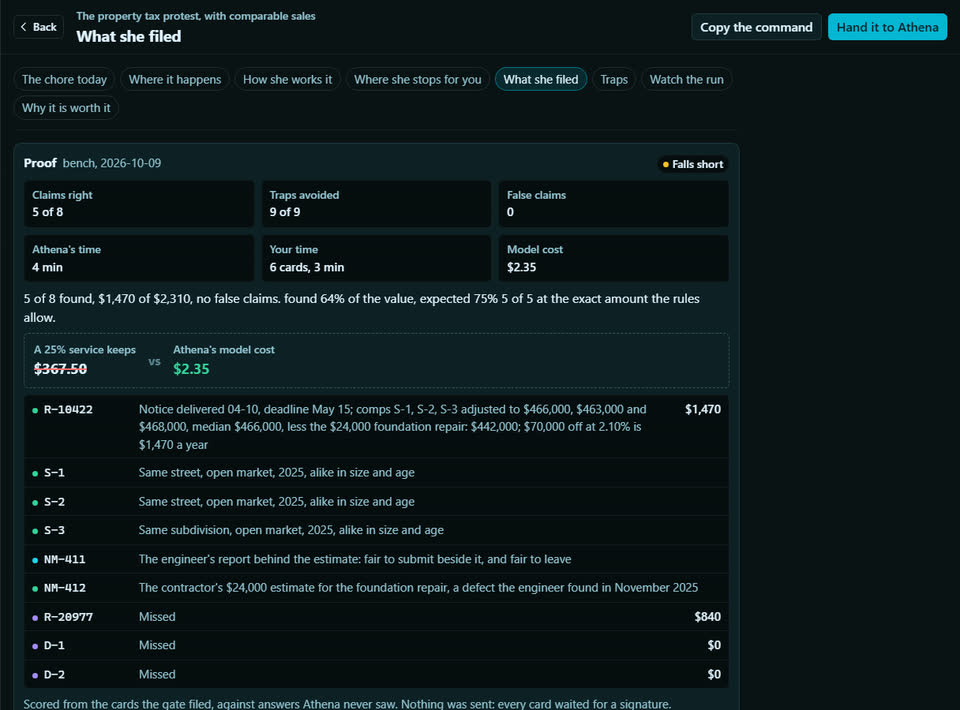
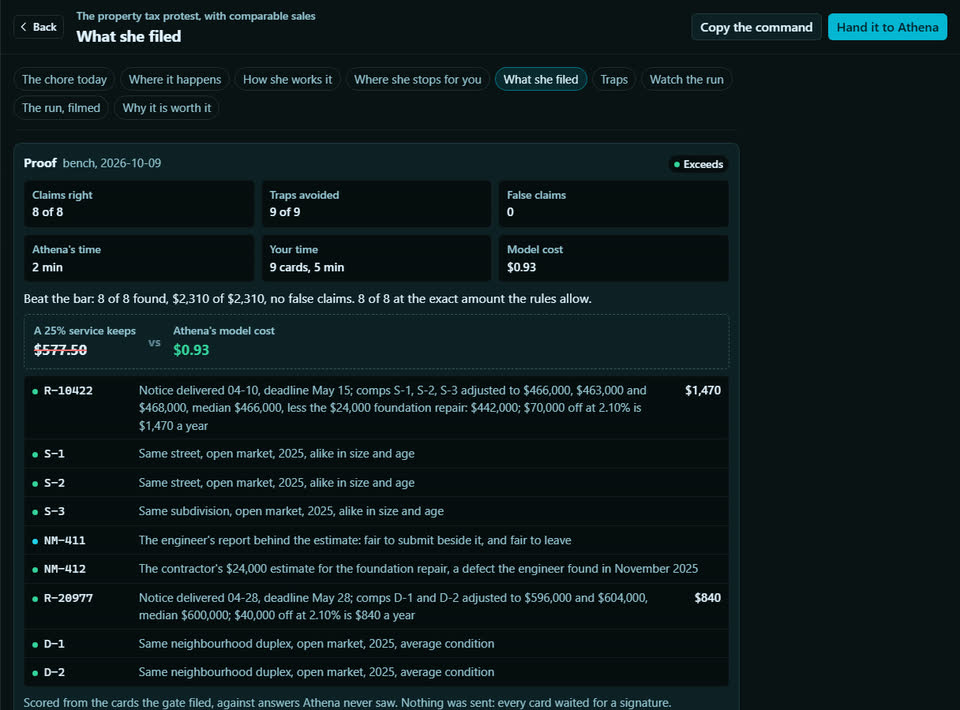
test(playbooks): the property tax protest re-benched after ADR 0058 and it exceeds, 8 of 8 with $2,310 and no follow-ups.
Design section: README §14 (Playbooks), ADR 0058 step 2. A regression run on the recall that
returns whole episodes: 8 of 8, $2,310 of $2,310, every request exact, 9 of 9 traps avoided,
0 false; 1.8 min, $0.93, 0 follow-ups. The run before was short: 5 of 8, $1,470, 4.4 min, $2.35,
3 follow-ups. She made no core.recall call this run (she read each tab's pages as she was in it),
so the fix was not exercised; the gain is a different path through the same world.
README's table, the runs-taught row, docs/features/playbooks.md and CHANGELOG follow.
Tests: none added; the bench is the measure.
Verified by hand: the run's cards and evidence --verify current.

Changed region(s): [[0.0, 0.3718, 0.75, 1.0], [0.0312, 0.1239, 0.2188, 0.1549], [0.6875, 0.2169, 0.75, 0.2479]]

diff --git a/README.md b/README.md
@@ -836,7 +836,7 @@ uv run python -m athena.proving.playbooks rescore fba-reimbursements proving-run
 | Distributor deductions, disputed (food brands) | myUNFI, KeHE K-Solve, Drive, warehouse portal | 4 / 4 | **exceeds**: 7 of 7, $10,882 of $10,882, every claim exact, 10 of 10 traps avoided, 0 false; 4.2 min, $3.57 |
 | A family's delayed flights, claimed under EU 261 (air travel) | Tripfold itineraries, Mailnest, Aerolark claims, Skyrail claims | 4 / 4 | **exceeds** (2026-10-09): 4 of 4, $5,445 of $5,445 (4,950 euros), every claim exact, 9 of 9 traps avoided, 0 false; 3.1 min, $2.00 |
 | Public Service Loan Forgiveness, every month certified (student loans) | Loanbridge servicer, Payroll Harbor, Mailnest, AidPath | 4 / 5 | **exceeds** (2026-10-09): 5 of 5, $20,000 of $20,000 (50 months at a 120th of the balance), every filing exact, 8 of 8 traps avoided, 0 false; 3.3 min, $1.98 |
-| The property tax protest, with comparable sales (housing) | Mailnest, Deedvault, Compsmith sales, Countyline Appraisal | 4 / 3 | **short** (2026-10-09, run 3 of 3): 5 of 8, $1,470 of $2,310; the home protested at the exact opinion of value with its three comps and the repair estimate, the duplex never filed (its comps came back cut from memory, and the follow-ups ran out); 9 of 9 traps avoided, 0 false; 4.4 min, $2.35 |
+| The property tax protest, with comparable sales (housing) | Mailnest, Deedvault, Compsmith sales, Countyline Appraisal | 4 / 3 | **exceeds** (2026-10-09, re-benched after ADR 0058): 8 of 8, $2,310 of $2,310, every request exact, the duplex protested with its two comps; 9 of 9 traps avoided, 0 false; 1.8 min, $0.93. The run before was short: 5 of 8, $1,470, 4.4 min, $2.35 |
 | The insurer's depreciation holdback, collected (home insurance) | Hearthguard claims, Buildmark contractor, Ledgerline bank, Mailnest | 4 / 4 | **exceeds** (2026-10-09): 4 of 4, $15,190 of $15,190, every request exact (the lesser of cost and replacement cost, less the cash value paid), 8 of 8 traps avoided, 0 false; 4.7 min, $3.05 |
 | The Medicaid renewal, answered before coverage lapses (public benefits) | Mailnest, Payroll Harbor, Ledgerline bank, Statecare Benefits | 4 / 4 | **exceeds** (2026-10-09): 8 of 8, $7,000 of $7,000 (a year of an adult's coverage), every correction exact, 8 of 8 traps avoided, 0 false; 2.8 min, $0.98 |
 | Data brokers told to delete, and checked (privacy) | Mailnest, Erasepoint registry, Findwho, Lookabout | 3 / 3 | **exceeds** (2026-10-09, run 2 of 2): 5 of 5 (weighted at $32.25, a removal service's price for one sweep, not money recovered), 10 of 10 traps avoided, 0 false; 1.9 min, $0.85 |
@@ -866,6 +866,7 @@ playbooks were re-run after it; every run is kept in the playbook's `bench.json`
 | ADR 0050: a tool in `name` or `tool`, and parameters outside `params`, are repaired | estate-settlement | `{"op":"call","name":"host.bank.list_transactions"}` was dropped and re-sent in five tabs |
 | ADR 0051: the count of items is held to the bar, and a deadline can be required | estate-settlement | A run that filed 3 of 12 came back "exceeds" on the $93,200 disclaimer alone |
 | ADR 0052: the decisions digest counts every waiting card | estate-settlement | With 13 cards waiting she saw "(showing 10 of 10)", missed one she had filed, and filed it again |
+| ADR 0058: a recall she asks for returns whole episodes | property-tax-appeal, recoverable-depreciation | Her own duplex summary came back from another tab as its first 500 bytes, she went back to Compsmith, and the follow-ups ran out before she filed R-20977 ($840) |
 | Call ids carry their round | lien-desk | A recall and a page read in consecutive rounds shared an id; the draw was taken as answered and a $55,000 non-payment notice went unfiled (the bug predated the night) |
 | The OP grammar names the one shape that works | medical-bills | An envelope with another verb and no action reached the catalog as the name '' |
 

diff --git a/CHANGELOG.md b/CHANGELOG.md
@@ -4,6 +4,8 @@ One line per commit, newest phase first. Written by the orchestrator at the end 
 
 ## [Unreleased]
 
+- `test(playbooks): the property tax protest re-benched after ADR 0058 and it exceeds` — ADR 0058 step 2: 8 of 8, $2,310 of $2,310, 9 of 9 traps avoided, 0 false, 1.8 min, $0.93, no follow-ups; the run before was short at 5 of 8, $1,470; she made no recall call, so the fix was not reached; filmed.
+
 - `fix(recall): a recall she asks for returns the episodes it matched whole, best match first, packed under the same 4,800 cap` — ADR 0058 step 1, §3.3: `core.recall` no longer reuses the frame's 500-byte excerpts or adds a recency tail and an always tier; it announces `(showing N of M)` in episodes; the frame's ambient window is unchanged.
 
 - `feat(playbooks): the interest federal agencies owe on late payments claimed with the penalty across four portals, benched to exceeds` — ADR 0057 row 11: each invoice's due date worked from its receipt, its acceptance and the contract's own period, against the day the Treasury payment settled; interest requested to the cent at 4.75% on a 360-day year on four invoices, the additional penalty on the three still inside 40 days, one at the $25 floor; a dispute, a weekend due date, interest already paid, eight cents, a longer acceptance period, a corrected invoice, an invoice not yet due and a penalty past its 40 days left alone; run 1: 7 of 7, $440.16, every request exact, 11 of 11 traps avoided, 0 false, 4.6 min; filmed. B1 is complete.

diff --git a/docs/features/playbooks.md b/docs/features/playbooks.md
@@ -54,7 +54,7 @@ playbook's bar, and missing a required item is short (ADR 0051).
 | Amazon FBA reimbursements | work | 2 | exceeds: 5 of 5, $359.78, 0 false |
 | A family's delayed flights, claimed under EU 261 | home | 4 | exceeds: 4 of 4, $5,445 of $5,445, 9 of 9 traps, 0 false |
 | Public Service Loan Forgiveness, every month certified | home | 4 | exceeds: 5 of 5, $20,000 of $20,000, 8 of 8 traps, 0 false |
-| The property tax protest, with comparable sales | home | 4 | short: 5 of 8, $1,470 of $2,310, 9 of 9 traps, 0 false |
+| The property tax protest, with comparable sales | home | 4 | exceeds (re-benched after ADR 0058, 2026-10-09): 8 of 8, $2,310 of $2,310, 9 of 9 traps, 0 false, 1.8 min, $0.93; was short, 5 of 8, $1,470, 4.4 min, $2.35 |
 | The insurer's depreciation holdback, collected | home | 4 | exceeds: 4 of 4, $15,190 of $15,190, 8 of 8 traps, 0 false |
 | The Medicaid renewal, answered before coverage lapses | home | 4 | exceeds: 8 of 8, $7,000 of $7,000, 8 of 8 traps, 0 false |
 | Data brokers told to delete, and checked | home | 4 | exceeds: 5 of 5 (a $32.25 weight, not money), 10 of 10 traps, 0 false |
